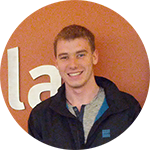
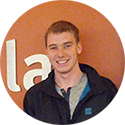
Clean changes

diff --git a/_assets/css/styles.css b/_assets/css/styles.css
@@ -14,6 +14,10 @@ body {
   /*background: white url('/img/home2.jpg') no-repeat center;*/
 }
 
+.pure-menu-heading {
+  font-weight: bold;
+}
+
 .footer {
   /*position:absolute;*/
   bottom:0;
@@ -148,11 +152,11 @@ strong {
 }
 
 .circular {
-  width: 150px;
+  width: 125px;
+  height: 125px;
   float:left;
   margin-right:20px;
   margin-bottom:10px;
-  height: 150px;
   -webkit-border-radius: 75px;
   -moz-border-radius: 75px;
   border-radius: 75px;
